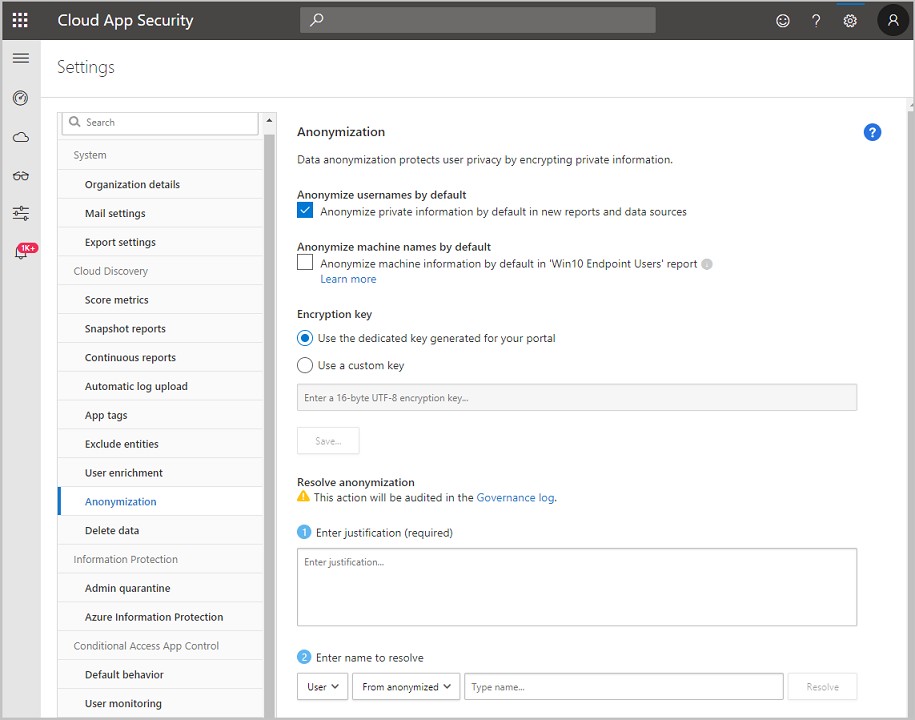
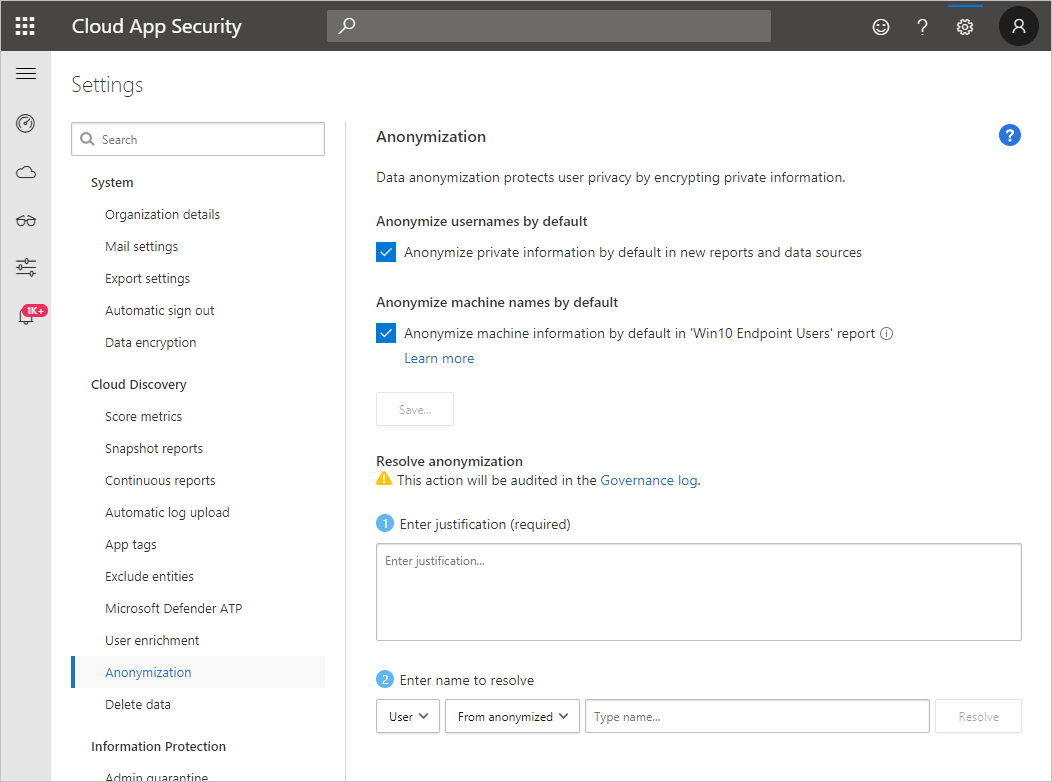
Updates from Danny

diff --git a/CloudAppSecurityDocs/cloud-discovery-anonymizer.md b/CloudAppSecurityDocs/cloud-discovery-anonymizer.md
@@ -7,7 +7,7 @@ keywords:
 author: shsagir
 ms.author: shsagir
 manager: shsagir
-ms.date: 12/10/2018
+ms.date: 01/29/2020
 ms.topic: conceptual
 ms.collection: M365-security-compliance
 ms.prod:
@@ -52,9 +52,7 @@ Key points:
     1. Under the Settings cog, select **Cloud Discovery settings**.
 
     2. In the Anonymization tab, to anonymize usernames by default, select **Anonymize private information by default in new reports and data sources**. You can also select **Anonymize machine information by default in 'Win10 Endpoint Users' report**.
-
-    3. Under Encryption key, select whether you want to **Use the dedicated key generated for your portal** or **Use a custom key**. If you **Use a custom key**, enter a 16-byte UTF8 encryption key.
-    4. Click **Save**.
+    3. Click **Save**.
 
     ![Anonymization](media/anonymizer1.png)
 
